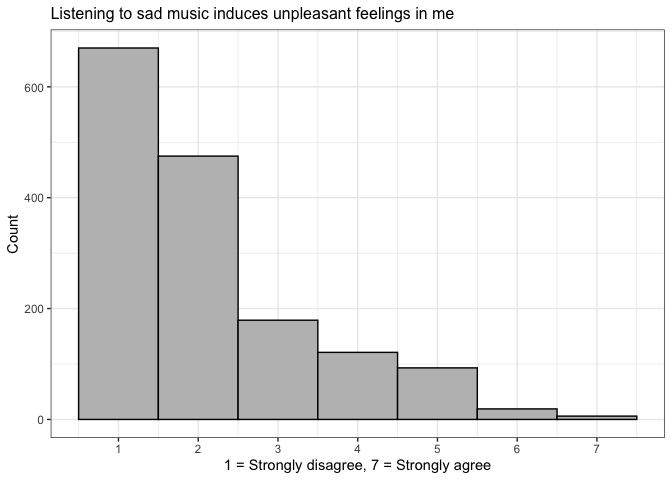
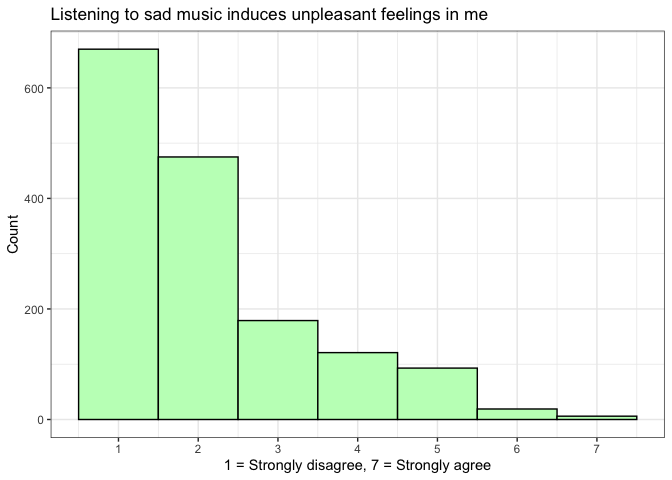
Added package documentation

diff --git a/README.md b/README.md
@@ -45,7 +45,7 @@ knitr::kable(d[1:4,])
 boxplot(rating ~ chord_size,data = d,col='lightblue')
 ```
 
-<img src="man/figures/README-unnamed-chunk-2-1.png" width="70%" />
+<img src="man/figures/README-unnamed-chunk-2-1.png" width="75%" />
 
 ## Datasets
 
@@ -60,7 +60,7 @@ Currently the following datasets are included:
 | annotations           | 100     | Annotations of 8 concepts          |
 | annotations\_features | 100     | Acoustic features                  |
 
-## Another example
+## Another example: Attitude ratings
 
 Here is an example of the `sadness` dataset that contains ratings of
 attitudes towards sad music from a sample of participants.
@@ -76,7 +76,8 @@ knitr::kable(MusicScienceData::sadness[1:4,1:10])
 | 3    | 18 to 24 | Female | d       | NM     | Sometimes |    6 |    5 |    5 |    5 |
 | 4    | 25 to 34 | Male   | d       | Amat.  | Sometimes |    5 |    4 |    4 |    6 |
 
-We can look at the distribution of the ratings to one of the questions:
+We can look at the distribution of the ratings to one of the questions
+(ASM10 is the item 10):
 
 ``` r
 library(ggplot2)
@@ -84,16 +85,16 @@ library(tidyverse)
 MusicScienceData::sadness %>% 
   drop_na(ASM10) %>%
   ggplot(aes(x = ASM10))+
-  geom_histogram(bins=7,fill="grey", colour='black')+
+  geom_histogram(bins=7,fill="darkseagreen1", colour='black')+
   scale_x_continuous(breaks = seq(1,7,by=1))+ 
   ggtitle('Listening to sad music induces unpleasant feelings in me')+
   ylab('Count')+
   xlab('1 = Strongly disagree, 7 = Strongly agree')+
   theme_bw()+
-  theme(plot.title = element_text(size=12))
+  theme(plot.title = element_text(size=13))
 ```
 
-<img src="man/figures/README-MusicScienceData-1.png" width="70%" />
+<img src="man/figures/README-MusicScienceData-1.png" width="75%" />
 
 ## Citation
 
@@ -107,8 +108,8 @@ expertise impact the pleasantness of consonance/dissonance but not its
 perceived tension. *Scientific Reports(10), 8693*.
 <https://doi.org/10.1038/s41598-020-65615-8>
 
-Eerola, T. & Peltola, H.-R. (2016). Memorable Experiences with Sad Music
-- Reasons, Reactions and Mechanisms of Three Types of Experiences.
+Eerola, T. & Peltola, H.-R. (2016). Memorable Experiences with Sad
+Music: Reasons, Reactions and Mechanisms of Three Types of Experiences.
 *PlosOne, 11(6)*, e0157444.
 <http://dx.doi.org/10.1371/journal.pone.0157444>
 
